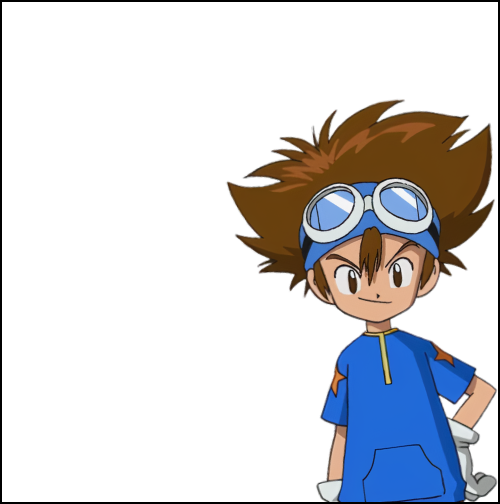
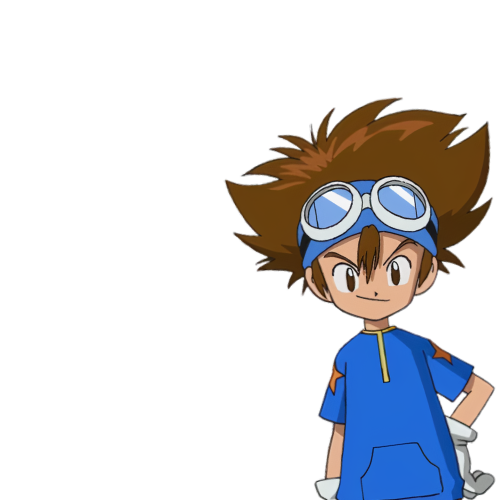
Categories, summary and catalog sections added.

diff --git a/src/assets/brands/exporter.jsx b/src/assets/brands/exporter.jsx
@@ -1,44 +1,59 @@
 import OnePieceCharacter from "./one-piece/character.png";
 import OnePieceLogo from "./one-piece/logo.png";
+import OnePieceBackground from "./one-piece/background.png";
 
 import PokemonCharacter from "./pokemon/character.png";
 import PokemonLogo from "./pokemon/logo.png";
+import PokemonBackground from "./pokemon/background.png";
 
 import YuGiOhCharacter from "./yu-gi-oh/character.png";
 import YuGiOhLogo from "./yu-gi-oh/logo.png";
+import YuGiOhBackground from "./yu-gi-oh/background.png";
 
 import DigimonCharacter from "./digimon/character.png";
 import DigimonLogo from "./digimon/logo.png";
+import DigimonBackground from "./digimon/background.png";
 
-const brands = {
-	onepiece: {
+import StarWarsCharacter from "./star-wars/character.png";
+import StarWarsLogo from "./star-wars/logo.png";
+import StarWarsBackground from "./star-wars/background.png";
+
+const BRANDS = [
+	{
+		label: "One Piece",
 		character: OnePieceCharacter,
 		logo: OnePieceLogo,
-		label: "One Piece",
-		color: "#E60012",
+		background: OnePieceBackground,
 		key: crypto.randomUUID(),
 	},
-	pokemon: {
+	{
+		label: "Pokémon",
 		character: PokemonCharacter,
 		logo: PokemonLogo,
-		label: "Pokémon",
-		color: "#FFCB05",
+		background: PokemonBackground,
 		key: crypto.randomUUID(),
 	},
-	yugioh: {
+	{
+		label: "Yu-Gi-Oh!",
 		character: YuGiOhCharacter,
 		logo: YuGiOhLogo,
-		label: "Yu-Gi-Oh!",
-		color: "#00539F",
+		background: YuGiOhBackground,
 		key: crypto.randomUUID(),
 	},
-	digimon: {
+	{
+		label: "Digimón",
 		character: DigimonCharacter,
 		logo: DigimonLogo,
-		label: "Digimón",
-		color: "#00A6A6",
+		background: DigimonBackground,
 		key: crypto.randomUUID(),
 	},
-};
+	{
+		label: "Star Wars",
+		character: StarWarsCharacter,
+		logo: StarWarsLogo,
+		background: StarWarsBackground,
+		key: crypto.randomUUID(),
+	},
+];
 
-export default brands;
+export default BRANDS;

diff --git a/src/routes/overview/home/view.jsx b/src/routes/overview/home/view.jsx
@@ -1,12 +1,41 @@
 import React from "react";
 
 import BrandList from "../../../components/brand-list/component";
+import Button from "../../../components/button/component";
+
+import Catalogue from "../catalogue/view";
+
+import "./style.css";
 
 const Home = () => {
 	return (
-		<secton class name="categories">
-			<BrandList />
-		</secton>
+		<>
+			<section className="categories">
+				<BrandList />
+			</section>
+			<section className="summary">
+				<h1>
+					Juegos únicos
+					<br />
+					de tus <font>marcas</font>
+					<br />
+					favoritas
+				</h1>
+				<p>
+					Descripción de juegos o cosas muy
+					<br />
+					chéveres que se pueden comprar en esta
+					<br />
+					tienda, básicamente un texto donde se
+					<br />
+					convence para comprar.
+				</p>
+				<Button onClick={console.log("a")} label="Más información" />
+			</section>
+			<section className="catalogue">
+				<Catalogue />
+			</section>
+		</>
 	);
 };
 

diff --git a/src/components/brand-list/style.css b/src/components/brand-list/style.css
@@ -1,0 +1,53 @@
+.brand {
+	width: 15.5rem;
+	height: 16rem;
+	position: relative;
+	cursor: pointer;
+}
+
+.brand * {
+	transition: all 300ms cubic-bezier(0.175, 0.885, 0.32, 1);
+}
+
+.brand [alt="background" i] {
+	filter: grayscale(1);
+}
+
+.brand [alt="character" i] {
+	position: absolute;
+	bottom: 0;
+	right: 0;
+	filter: grayscale(0.5);
+}
+
+.brand [alt="logo" i] {
+	position: absolute;
+	left: 0;
+	right: 0;
+	bottom: -3rem;
+	height: 6rem;
+	object-fit: contain;
+}
+
+.brand div {
+	width: 14rem;
+	height: 100%;
+	overflow: hidden;
+	border-radius: 0.5rem;
+}
+
+.brand:hover {
+	[alt="character" i] {
+		scale: 1.1;
+		filter: grayscale(0);
+		rotate: -5deg;
+	}
+	[alt="logo" i] {
+		scale: 1.3;
+	}
+	[alt="background" i] {
+		scale: 1.1;
+		rotate: 5deg;
+		filter: grayscale(0);
+	}
+}

diff --git a/src/components/brand-list/component.jsx b/src/components/brand-list/component.jsx
@@ -1,13 +1,17 @@
 import React from "react";
 
-import brands from "../../assets/brands/exporter";
+import BRANDS from "../../assets/brands/exporter";
+
+import "./style.css";
 
 const BrandList = () => {
-	return brands.map(({ key, label, character, logo }) => (
-		<div key={key}>
-			<img src={logo} alt={label} />
-			<img src={character} alt={label} />
-			<h2>{label}</h2>
+	return BRANDS.map(({ key, label, character, logo, background }) => (
+		<div key={key} className="brand">
+			<div>
+				<img src={background} alt="Background" />
+			</div>
+			<img src={character} alt="Character" />
+			<img src={logo} alt="Logo" />
 		</div>
 	));
 };

diff --git a/src/index.css b/src/index.css
@@ -163,14 +163,34 @@ p {
 	line-height: 1rem;
 }
 
+font {
+	color: var(--accent);
+	font-size: inherit;
+	line-height: inherit;
+	font-family: inherit;
+	font-weight: inherit;
+	letter-spacing: inherit;
+}
+
+span {
+	color: inherit;
+	font-size: inherit;
+	line-height: inherit;
+	font-family: inherit;
+	font-weight: inherit;
+	letter-spacing: inherit;
+}
+
 /* Basic structure */
 
 #root {
 	transition: none;
 }
 
-header + div:has(+ footer) {
+header + div:has(footer) {
 	min-height: calc(100vh - 22rem);
+	max-height: calc(100vh - 6rem);
+	overflow-y: scroll;
 }
 
 div {

diff --git a/src/components/button/style.css b/src/components/button/style.css
@@ -1,0 +1,20 @@
+button {
+	background: var(--accent);
+	color: var(--white);
+	border: none;
+	border-radius: 0.25rem;
+	padding: 0.5rem 1rem;
+	font-weight: 500;
+	cursor: pointer;
+	width: fit-content;
+	transition: all 300ms cubic-bezier(0.175, 0.885, 0.32, 1);
+}
+
+button:hover {
+	color: var(--white);
+	box-shadow: 0 4px 0 0 var(--lipstick--500);
+	background: var(--lipstick);
+	transform: translateY(-0.25rem);
+	border-radius: 0.75rem;
+	padding: 0.5rem 1.5rem;
+}

diff --git a/src/routes/overview/home/style.css b/src/routes/overview/home/style.css
@@ -1,0 +1,24 @@
+.categories {
+	display: flex;
+	gap: 1rem;
+	justify-content: center;
+	padding: 4rem;
+}
+
+.summary {
+	display: flex;
+	flex-direction: column;
+	align-items: center;
+	gap: 1rem;
+	padding: 4rem;
+}
+
+.summary * {
+	text-align: center;
+}
+
+.catalogue {
+	display: grid;
+	grid-template-columns: repeat(auto-fill, minmax(12rem, 1fr));
+	gap: 1rem;
+}

diff --git a/src/routes/overview/catalogue/view.jsx b/src/routes/overview/catalogue/view.jsx
@@ -27,11 +27,17 @@ const Catalogue = () => {
 	}, []);
 
 	return (
-		<div className="catalogue">
+		<>
 			{items.map(({ id, image, name, price }) => (
-				<Item key={id} image={image} name={name} price={price} />
+				<Item
+					key={id}
+					className="product"
+					image={image}
+					name={name}
+					price={price}
+				/>
 			))}
-		</div>
+		</>
 	);
 };
 

diff --git a/src/routes/overview/catalogue/style.css b/src/routes/overview/catalogue/style.css
@@ -1,5 +1,11 @@
-.catalogue {
-	display: grid;
-	grid-template-columns: repeat(auto-fill, minmax(12rem, 1fr));
-	gap: 1rem;
+.product {
+	display: flex;
+	flex-direction: column;
+	align-items: center;
+	margin: 0 10px;
+	padding: 10px;
+	border: 1px solid #e0e0e0;
+	border-radius: 5px;
+	background-color: #fff;
+	box-shadow: 0 0 5px 0 rgba(0, 0, 0, 0.1);
 }

diff --git a/src/components/button/component.jsx b/src/components/button/component.jsx
@@ -1,0 +1,9 @@
+import React from "react";
+
+import "./style.css";
+
+const Button = ({ onClick, label }) => {
+	return <button onClick={onClick}>{label}</button>;
+};
+
+export default Button;

diff --git a/src/routes/overview/view.jsx b/src/routes/overview/view.jsx
@@ -10,8 +10,8 @@ const Overview = () => {
 			<Header />
 			<div>
 				<Outlet />
+				<Footer />
 			</div>
-			<Footer />
 		</>
 	);
 };
